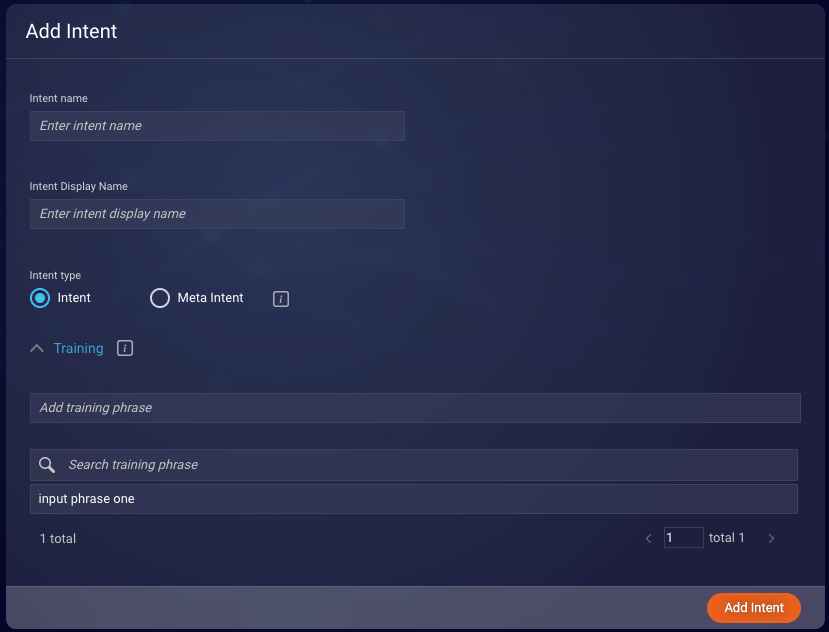
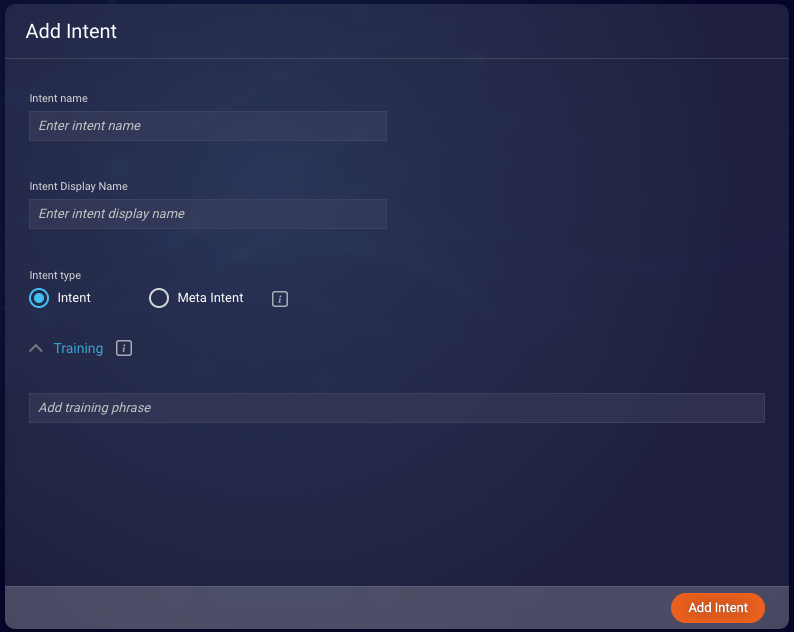
BA-4395 Update doc for Dialog Editor v2.0

diff --git a/pages/documents/ConversationalAI/KnowledgeBase/knowledgeBases.md b/pages/documents/ConversationalAI/KnowledgeBase/knowledgeBases.md
@@ -63,9 +63,10 @@ If you want to import a set of articles into a knowledge base when you add the k
 ### Configure knowledge base settings
 
 **To configure knowledge base settings**
-1. Open the knowledge base, and click <img style="width:25px" src="img/ConvoBuilder/icon_kb_settings.png"> (Knowledge Base Menu icon) in the lower-right corner.
-2. In the Settings panel, click **KB Settings**.
-3. Specify the following:
+1. Open the knowledge base.
+2. In the upper-right corner, click <img style="width:25px" src="img/ConvoBuilder/icon_ellipsisVertical.png">, and select **Knowledge Base Menu**.
+3. In the Settings panel, click **KB Settings**.
+4. Specify the following:
     * **Data source name**: Enter a new display name for the knowledge base if desired. Changing the name of the knowledge base doesn't require a corresponding update to a [knowledge base integration](conversation-builder-integrations-knowledge-base-integrations.html) that uses the knowledge base; the integration is tied to the knowledge base's underlying primary key, not its name. 
     * **Data source type**: Read-only.
     * **Language**: Change the language if desired. For information on the role that the language plays, see [here](knowledge-base-overview.html#languages).
@@ -76,7 +77,7 @@ If you want to import a set of articles into a knowledge base when you add the k
     * **Associated Domain**: Read-only. This field is displayed only if the knowledge base uses [Domain intents](knowledge-base-overview.html#knowlege-base-intents-versus-domain-intents). The domain can't be changed after the knowledge base is created.
     * **Account**: If you logged into Conversation Builder directly (i.e., not via single sign-on from LiveEngage) and you have access to multiple organizations within your LiveEngage account, you can use this setting to change the organization under which this knowledge base exists. If you logged into Conversation Builder via single sign-on from LiveEngage, the organization you were using in LiveEngage is active and can't be changed, and nothing appears in this list.
     * **Public**: If you don't want other users in your LiveEngage account to be able to view and edit the knowledge base, click the slider to Off. To facilitate the contributions of multiple persons to articles, the default value is On.
-4. Click **Update**.
+5. Click **Update**.
 
 ### Convert Knowledge Base intents to Domain intents
 
@@ -88,12 +89,13 @@ From a workflow perspective, the process of testing the knowledge base and addin
 Before taking this action, be certain about doing so. Once you convert the intents, you no longer see and can no longer use Knowledge Base intents in the affected knowledge base. Also, this action irreversibly modifies the domain that you select as described above.
 
 **To convert from Knowledge Base intents to Domain intents**
-1. Open the knowledge base, and click <img style="width:25px" src="img/ConvoBuilder/icon_kb_settings.png"> (Knowledge Base Menu icon) in the lower-right corner.
-2. In the Settings panel, click **KB Settings**.
-3. Click **More Options**, and scroll down to the **Intent Association** section.
-4. Click **Convert to Domain Intents**.
-5. In the dialog that appears, select the domain.
-6. In the confirmation dialog, click **Confirm**.
+1. Open the knowledge base.
+2. In the upper-right corner, click <img style="width:25px" src="img/ConvoBuilder/icon_ellipsisVertical.png">, and select **Knowledge Base Menu**.
+3. In the Settings panel, click **KB Settings**.
+4. Click **More Options**, and scroll down to the **Intent Association** section.
+5. Click **Convert to Domain Intents**.
+6. In the dialog that appears, select the domain.
+7. In the confirmation dialog, click **Confirm**.
     
     This converts the intents and associates the selected domain.
 
@@ -109,18 +111,20 @@ This action overwrites the content in the knowledge base with the content in the
 Before performing a sync, make sure the Google sheet includes the "id" column that contains the IDs for all existing articles. If it doesn't, update the sheet accordingly before syncing.
 
 **To sync a knowledge base with a Google sheet**
-1. Open the knowledge base, and click <img style="width:25px" src="img/ConvoBuilder/icon_kb_settings.png"> (Knowledge Base Menu icon) in the lower-right corner.
-2. In the Settings panel, click **KB Settings**.
-3. Click **More Options**, scroll down to the **Sync Google Sheet Data Source** section, and click <img style="width:25px" src="img/ConvoBuilder/icon_kb_syncGoogleSheet.png"> (Refresh icon).
+1. Open the knowledge base.
+2. In the upper-right corner, click <img style="width:25px" src="img/ConvoBuilder/icon_ellipsisVertical.png">, and select **Knowledge Base Menu**.
+3. In the Settings panel, click **KB Settings**.
+4. Click **More Options**, scroll down to the **Sync Google Sheet Data Source** section, and click <img style="width:25px" src="img/ConvoBuilder/icon_kb_syncGoogleSheet.png"> (Refresh icon).
 
 ### Refresh the intents
 
 The intents for every article are stored in a cache that is updated automatically every 5 minutes. But if you've made a recent change to intents--either [Knowledge Base intents or Domain intents](knowledge-base-overview.html#knowlege-base-intents-versus-domain-intents)--and you want to immediately see the result of the changes, you can manually refresh the cache.
 
 **To refresh the intents in a knowledge base**
-1. Open the knowledge base, and click <img style="width:25px" src="img/ConvoBuilder/icon_kb_settings.png"> (Knowledge Base Menu icon) in the lower-right corner.
-2. In the Settings panel, click **KB Settings**.
-3. Click **More Options**, scroll down to the **Refresh Intents** section, and click <img style="width:25px" src="img/ConvoBuilder/icon_kb_refresh.png"> (Refresh icon).
+1. Open the knowledge base.
+2. In the upper-right corner, click <img style="width:25px" src="img/ConvoBuilder/icon_ellipsisVertical.png">, and select **Knowledge Base Menu**.
+3. In the Settings panel, click **KB Settings**.
+4. Click **More Options**, scroll down to the **Refresh Intents** section, and click <img style="width:25px" src="img/ConvoBuilder/icon_kb_refresh.png"> (Refresh icon).
 
 ### Download a knowledge base 
 
@@ -134,10 +138,11 @@ You might need to download a knowledge base for a few reasons:
 * You want an extra measure of back-up, so you plan to archive the CSV file for safekeeping.
 
 **To download a knowledge base**
-1. Open the knowledge base, and click <img style="width:25px" src="img/ConvoBuilder/icon_kb_settings.png"> (Knowledge Base Menu icon) in the lower-right corner.
-2. In the Settings panel, click **KB Settings**.
-3. Click **More Options**, scroll down to the **Download Knowledge Base** section, and click <img style="width:25px" src="img/ConvoBuilder/icon_kb_download.png"> (Download icon).
-4. Follow the browser prompts to access and save the CSV file to a location of your choice.
+1. Open the knowledge base.
+2. In the upper-right corner, click <img style="width:25px" src="img/ConvoBuilder/icon_ellipsisVertical.png">, and select **Knowledge Base Menu**.
+3. In the Settings panel, click **KB Settings**.
+4. Click **More Options**, scroll down to the **Download Knowledge Base** section, and click <img style="width:25px" src="img/ConvoBuilder/icon_kb_download.png"> (Download icon).
+5. Follow the browser prompts to access and save the CSV file to a location of your choice.
 
 ### Delete a knowledge base
 
@@ -147,7 +152,8 @@ Deleting a knowledge base is a non-recoverable action, so be certain about doing
 Ensure the knowledge base isn't being used in any [Knowledge Base integrations](conversation-builder-integrations-knowledge-base-integrations.html) before you delete it.
 
 **To delete a knowledge base**
-1. Open the knowledge base, and click <img style="width:25px" src="img/ConvoBuilder/icon_kb_settings.png"> (Knowledge Base Menu icon) in the lower-right corner.
-2. In the Settings panel, click **KB Settings**.
-3. Click **More Options**, scroll down to the **Delete Knowledge Base** section, and click <img style="width:25px" src="img/ConvoBuilder/icon_kb_delete.png"> (Delete icon).
-4. In the confirmation dialog, click **Yes**.
+1. Open the knowledge base.
+2. In the upper-right corner, click <img style="width:25px" src="img/ConvoBuilder/icon_ellipsisVertical.png">, and select **Knowledge Base Menu**.
+3. In the Settings panel, click **KB Settings**.
+4. Click **More Options**, scroll down to the **Delete Knowledge Base** section, and click <img style="width:25px" src="img/ConvoBuilder/icon_kb_delete.png"> (Delete icon).
+5. In the confirmation dialog, click **Yes**.

diff --git a/pages/documents/ConversationalAI/KnowledgeBase/knowledgeBaseArticles.md b/pages/documents/ConversationalAI/KnowledgeBase/knowledgeBaseArticles.md
@@ -87,7 +87,7 @@ To accomplish this, in the interaction that displays the article, we've configur
 
 To train a knowledge base, select the knowledge base, enter an utterance, and review the results. If you don't get any results for a particular utterance, you can adjust the filters by tapping the advanced search icon.
 
-<img class="fancyimage" style="width:700px" src="img/hrfaqdemo.png">
+<img class="fancyimage" style="width:700px" src="img/ConvoBuilder/kb_test.png">
 
 By default, the Search Settings are set to **Intents** and **Fair Plus**. This means that the algorithm will first see if there are any matches using our NLU, with a threshold of Fair Plus. However, if it doesn’t find any, it will attempt a text search as well. Because of this, you might see a message like "No intent matched. Performed text search. 3 results found." This means you should add some more training phrases to an article to improve your results.
 
@@ -99,9 +99,9 @@ To add more training phrases (or intent qualifiers), you can manually add them t
 
 <img class="fancyimage" style="width:700px" src="img/qualifiers.png">
 
-You can also use the Thumb Up and Down icons displayed in a search. Below is an example where the utterance returned some results. The preferred result was only a FAIR match. By tapping the **Thumbs Up** icon, you automatically add the current utterance to a Positive Learning set for this article. Tapping **Thumbs Down** does the opposite.
+You can also use the Thumb Up and Down icons displayed in a search. Below is an example where the utterance returned some results. The preferred result was only a FAIR PLUS match. By tapping the **Thumbs Up** icon, you automatically add the current utterance to a Positive Learning set for this article. Tapping **Thumbs Down** does the opposite.
 
-<img class="fancyimage" style="width:700px" src="img/thumbsup.png">
+<img class="fancyimage" style="width:700px" src="img/ConvoBuilder/kb_test_thumbsUp.png">
 
 If you were to rerun the search, the article would return with a higher score.
 
@@ -121,17 +121,18 @@ The Debugger tool is also *the* way to see the JSON that's returned by the searc
 
 **To test user input**
 
-1. Open the knowledge base, and click <img style="width:30px" src="img/ConvoBuilder/icon_kb_test.png"> in the lower-right corner.
+1. Open the knowledge base.
+2. In the upper-right corner, click <img style="width:25px" src="img/ConvoBuilder/icon_ellipsisVertical.png">, and select **Test User Input**.
 
     <img class="fancyimage" style="width:350px" src="img/ConvoBuilder/kb_testUserInput1.png">
 
-2. Specify the following:
+3. Specify the following:
 
     * **Phrase**: Enter the phrase to search for.
     * **Search Modes**: Select either Intents, Intents Only, or All. For a description of each mode, see [here](knowledge-base-overview.html#search-modes).
     * **Threshold**: Select the minimum score that a result must have in order to be returned, either VERY GOOD, GOOD, or FAIR PLUS. For more on thresholds, see [here](knowledge-base-overview.html#thresholds).
 
-3. Click **test**.
+4. Click **test**.
 
     In the results, the JSON of the matched article is displayed. You can examine the "title" to see which article has been matched.
 
@@ -150,7 +151,7 @@ If you're just getting started with knowledge bases and want to try using this t
 
 1. If you haven't already done so, in Conversation Builder, create a bot that includes a [Knowledge Base integration](conversation-builder-integrations-knowledge-base-integrations.html) that uses the knowledge base you want to test.
 2. Return to the Knowledge Base application, and open the knowledge base.
-3. Click <img style="width:30px" src="img/ConvoBuilder/icon_kb_chat.png"> (Chat) in the lower-right corner.
+2. In the upper-right corner, click <img style="width:25px" src="img/ConvoBuilder/icon_ellipsisVertical.png">, and select **Chat**.
 4. In the Preview panel, select the bot to use.
 
    <img class="fancyimage" style="width:350px" src="img/ConvoBuilder/kb_chat1.png">
@@ -161,16 +162,18 @@ If you're just getting started with knowledge bases and want to try using this t
 
 ### Find articles with a specific tag
 
-1. In the knowledge base, click <img style="width:30px" src="img/ConvoBuilder/icon_kb_tags.png"> (Tags) in the lower-right corner.
-2. In the Tags panel, select the tag to highlight it. You can repeat this step as needed if you're looking for articles assigned to multiple tags.
+1. Open the knowledge base.
+2. In the upper-right corner, click <img style="width:25px" src="img/ConvoBuilder/icon_ellipsisVertical.png">, and select **Tags**.
+3. In the Tags panel, select the tag to highlight it. You can repeat this step as needed if you're looking for articles assigned to multiple tags.
     
     The result list is updated to include only the articles with the selected tags.
     <img class="fancyimage" style="width:750px" src="img/ConvoBuilder/kb_findWithTag.png">
 
 ### Find articles assigned to a specific category
 
-1. In the knowledge base, click <img style="width:30px" src="img/ConvoBuilder/icon_kb_categories.png"> (Categories) in the lower-right corner.
-2. In the Categories panel, select the category to highlight it. You can repeat this step as needed if you're looking for articles assigned to multiple categories.
+1. Open the knowledge base.
+2. In the upper-right corner, click <img style="width:25px" src="img/ConvoBuilder/icon_ellipsisVertical.png">, and select **Categories**.
+3. In the Categories panel, select the category to highlight it. You can repeat this step as needed if you're looking for articles assigned to multiple categories.
     
     The result list is updated to include only the articles assigned to the selected categories.
     <img class="fancyimage" style="width:750px" src="img/ConvoBuilder/kb_findInCategory.png">

diff --git a/pages/documents/ConversationalAI/IntentBuilder/intents.md b/pages/documents/ConversationalAI/IntentBuilder/intents.md
@@ -17,15 +17,21 @@ Intents match an entire sentence against a set of training sentences or KB artic
 
 ### Adding an intent
 
-The default panel of the Domain View is the Add Intent panel. It will be the panel opened by default when you enter the Domain View.
+**To add an intent**
 
-<img class="fancyimage" style="width:700px" src="img/ConvoBuilder/ib_addIntent.png">
+1. In the dashboard that lists your domains, select the domain.
+2. Click **Add Intent** in the upper-right corner.
 
-To add an intent, first use the uppermost input area to enter its name.
+    <img class="fancyimage" style="width:700px" src="img/ConvoBuilder/ib_addIntent.png">
 
-<div class="important">Using standard naming conventions when creating intents is crucial. A domain can have dozens of intents and being able to easily sort and find intents is the key to making sure your bot runs efficiently and smoothly.</div>
+3. Specify the following:
 
-Once you've selected a name for your intent, you should add as many training phrases as possible by using the bottom input area.
+    * **Intent name**: Enter the intent name. Using standard naming conventions when creating intents is crucial. A domain can have dozens of intents and being able to easily sort and find intents is the key to making sure your bot runs efficiently and smoothly.
+    * **Intent display name**: Enter the display name.
+    * **Intent type**: Select either "Intent" or "Meta Intent."
+    * **Training**: Enter as many trainining phrases as possible. This is discussed in more detail below.
+
+6. Click **Add Intent**.
 
 ### Adding training phrases
 
@@ -60,11 +66,11 @@ To test your intents, go to the Intent Builder, select the appropriate domain, c
 
 This is what a specific intent search looks like:
 
-<img class="fancyimage" style="width:700px" src="img/retaildemo.png">
+<img class="fancyimage" style="width:700px" src="img/ConvoBuilder/ib_intentSearch.png">
 
 Here are the results of a "domain" search:
 
-<img class="fancyimage" style="width:700px" src="img/retaildemo1.png">
+<img class="fancyimage" style="width:700px" src="img/ConvoBuilder/ib_domainSearch.png">
 
 Tapping on each of the intent results will give you a more detailed results breakdown.
 

diff --git a/pages/documents/ConversationalAI/IntentBuilder/intentbuilderoverview.md b/pages/documents/ConversationalAI/IntentBuilder/intentbuilderoverview.md
@@ -16,6 +16,8 @@ An example might be a "shipping" domain that contains intents for "delivery stat
 
 Intents directs your bot to be more flexible and respond to a wider variety of user input; instead of looking for specific patterns in user input (for example, the pattern "bill"), the bot uses an NLU engine to look for the intent specified and trigger the interaction you configured to respond to this intent. Therefore, once you configure your intents with robust *training phrases*, expressions like, "I have a question about billing", "Looking to check my account," or "What's my billing status?" yield the same intent and, thus, the same response from the bot.
 
+<img class="fancyimage" style="width:800px" src="img/ConvoBuilder/ib_intentDetails.png">
+
 {: .important}
 See [NLU Engines](conversation-builder-intent-builder-nlu-engines.html) to learn more about the different NLU options that are compatible with Conversation Builder.
 

diff --git a/pages/documents/ConversationalAI/IntentBuilder/domains.md b/pages/documents/ConversationalAI/IntentBuilder/domains.md
@@ -27,9 +27,9 @@ indicator: both
 
 ### The domain view
 
-Once you've added a domain, you will be automatically navigated to the Domain View. On the left hand side, you can find a list of the intents a domain includes (which will originally be empty).
+Once you've added a domain, you will be automatically navigated to the Domain View. On the left hand side, you can find a list of the intents a domain includes.
 
-<img class="fancyimage" style="width:800px" src="img/ConvoBuilder/ib_domainView.png">
+<img class="fancyimage" style="width:800px" src="img/ConvoBuilder/ib_intentDetails.png">
 
 You can use the debugger (click **Debug** in the upper-right corner) to enter sample user input to test against your intents. The NLU engine will take the text you input and see if it can find matches in your intents. It will list these intents and the degree to which they matched the input text.
 

diff --git a/pages/documents/ConversationalAI/IntentBuilder/NLUengines.md b/pages/documents/ConversationalAI/IntentBuilder/NLUengines.md
@@ -86,7 +86,7 @@ Key characteristics include:
 
 #### 3rd-party NLU limitations
 
-- Length of the 3rd-party NLU domain name should not exceed 64 characters. (Watson limitation)
+- The length of the 3rd-party NLU domain name should not exceed 64 characters. (Watson limitation)
 - Each domain can only support one language, which is specified on the Domain Settings page.
 - LivePerson does not support "pulling" into Intent Builder existing models that have been trained in IBM Watson or Google Dialogflow. Only model "push" is supported; this is accomplished by training the model in Intent Builder.
 
